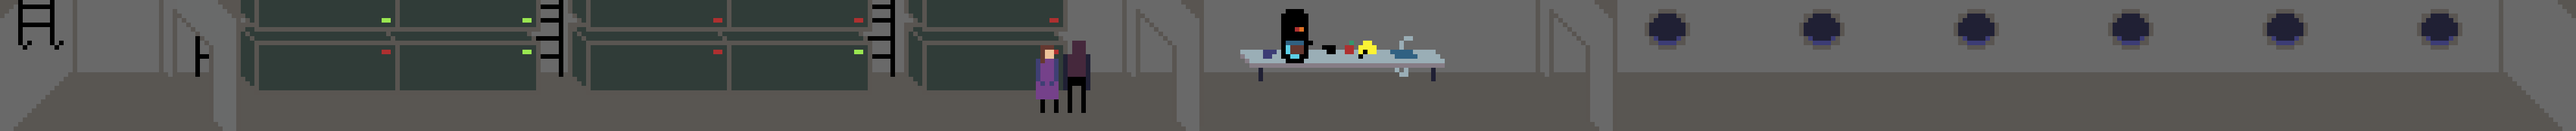
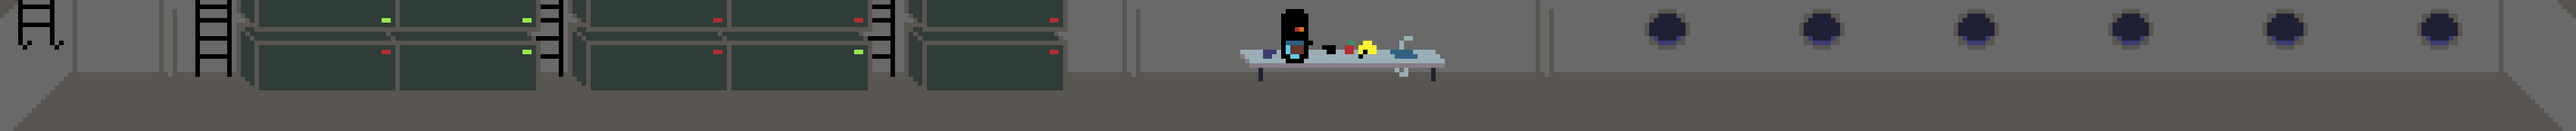
updated map and player centering

Changed region(s): [[0.4041, 0.3017, 0.4352, 0.875], [0.0622, 0.0, 0.0933, 0.3319], [0.0622, 0.3922, 0.0933, 0.4526]]

diff --git a/js/player.js b/js/player.js
@@ -23,10 +23,8 @@ exports.Player = function(Q) {
       
     //PROBABLY SHOULD BE MOVED
     Q.animations('player', {
-        walk_left: { frames: [0,1,2], rate: 1/5},
-        walk_right: { frames: [0,1,2], rate: 1/5},
-        stand_right: { frames: [0] },
-        stand_left: { frames: [0] }
+        walk: { frames: [0,1,2], rate: 1/5},
+        stand: { frames: [0] }
     });
 
     Q.Sprite.extend("Player", {
@@ -38,7 +36,7 @@ exports.Player = function(Q) {
                 z: C.SPRITE_PLAYER,
                 sheet: "player",
                 sprite: "player",
-                speed: 100,
+                speed: 1000,
                 type: C.SPRITE_PLAYER,
                 collisionMask: C.SPRITE_BLOCKER
             });
@@ -60,15 +58,18 @@ exports.Player = function(Q) {
                this.frontVision.set(this.p.x + this.p.cx, this.p.y);
                this.backVision.set(this.p.x - this.p.cx, this.p.y);
            }
-           this.play("walk_right");
 
-//         if (this.p.vx > 0) {
-//             this.play("walk_right");
-//         } else if (this.p.vx < 0) {
-//             this.play("walk_left");
-//         } else {
-//              this.play("stand_" + this.p.direction > 0 ? "right" : "left");
-//         }
+           if (this.p.vx < 0) {
+               this.p.flip = "x";
+           } else if (this.p.vx > 0) {
+               this.p.flip = "";
+           } 
+
+           if (this.p.vx != 0 || this.p.vy != 0) {
+               this.play("walk");
+           } else {
+               this.play("stand");
+           }
 
 
            var nearby = this.stage.search(this.frontVision);

diff --git a/js/scenes.js b/js/scenes.js
@@ -9,20 +9,20 @@ exports.scenes = function(Q) {
     Q.scene("common-area", function(stage) {
         stage.insert(new Q.NPC(60, 260));
 
-     // stage.insert(new Q.Sprite({
-     //     x: 0,
-     //     y: 0,
-     //     h: 232,
-     //     w: 4536,
-     //     asset: 'main-scene.png'
-     // }));
+        stage.insert(new Q.Sprite({
+            x: 0,
+            y: 116,
+            h: 232,
+            w: 4536,
+            asset: 'main-scene.png'
+        }));
 
         // back wall
         stage.insert(new Q.Sprite({
             x: 0,
-            y: 40,
+            y: 32,
             h: 1,
-            w: 1000,
+            w: 4536,
             type: C.SPRITE_BLOCKER
         }));
 
@@ -43,7 +43,7 @@ exports.scenes = function(Q) {
 
         }));
 
-          var player = stage.insert(new Q.Player(0, 260));
+          var player = stage.insert(new Q.Player(0, 128));
 
         var actionButton = new Q.UI.Button({
             asset: 'action.png',

diff --git a/js/quintus_2d.js b/js/quintus_2d.js
@@ -42,7 +42,7 @@ Quintus["2D"] = function(Q) {
       var followX = Q._isFunction(this.directions.x) ? this.directions.x(this.following) : this.directions.x;
       var followY = Q._isFunction(this.directions.y) ? this.directions.y(this.following) : this.directions.y;
 
-      this[first === true ? 'centerOn' : 'softCenterOn'](
+      this['centerOn'](
                     followX ? 
                       this.following.p.x + this.following.p.w/2 - this.offsetX :
                       undefined,

diff --git a/js/app.js b/js/app.js
@@ -40,7 +40,7 @@ Q.input.on("action", function() {
     }
 });
 
-Q.load(['player.png', 'npc.png', 'action.png', 'ladder.png'], function() {
+Q.load(['player.png', 'main-scene.png', 'npc.png', 'action.png', 'ladder.png'], function() {
     //extend to include all sprites
     //Q.compileSheets("player.png", "player.json");
     Q.sheet("player",

diff --git a/app.html b/app.html
@@ -22,7 +22,7 @@
 
   </head>
   <body>
-      <canvas id="gameCanvas" width="700" height="350"></canvas>
+      <canvas id="gameCanvas" width="700" height="232"></canvas>
       <div class="wrapper" id="dialog-ui" v-show="show" v-on="click: dismiss">
           <p v-text="content"></p>
           <ul v-show="showChoices">
